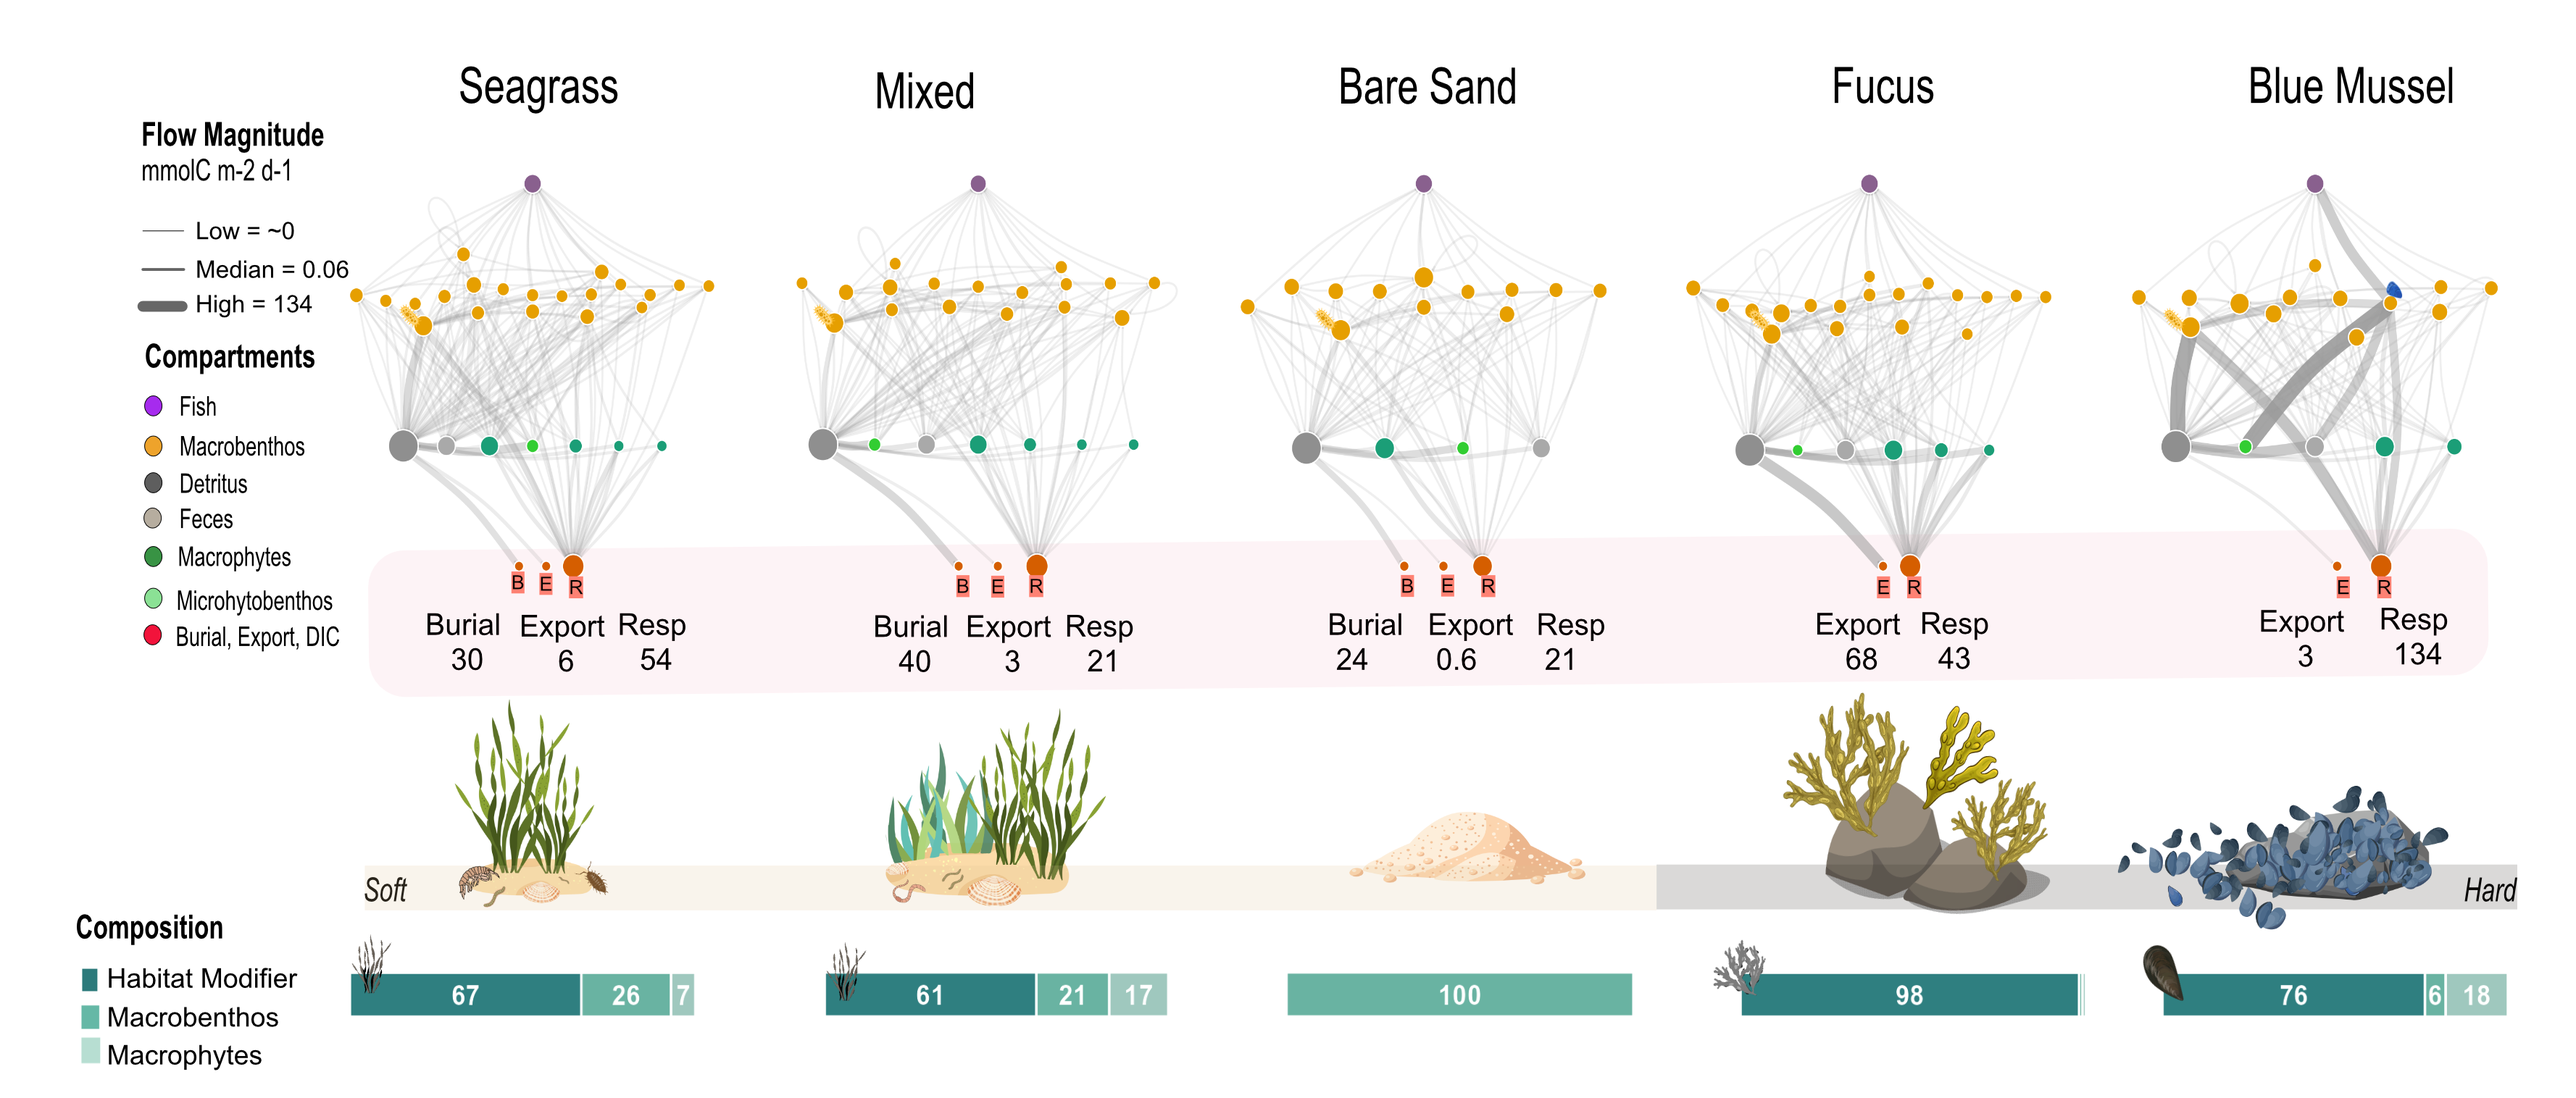
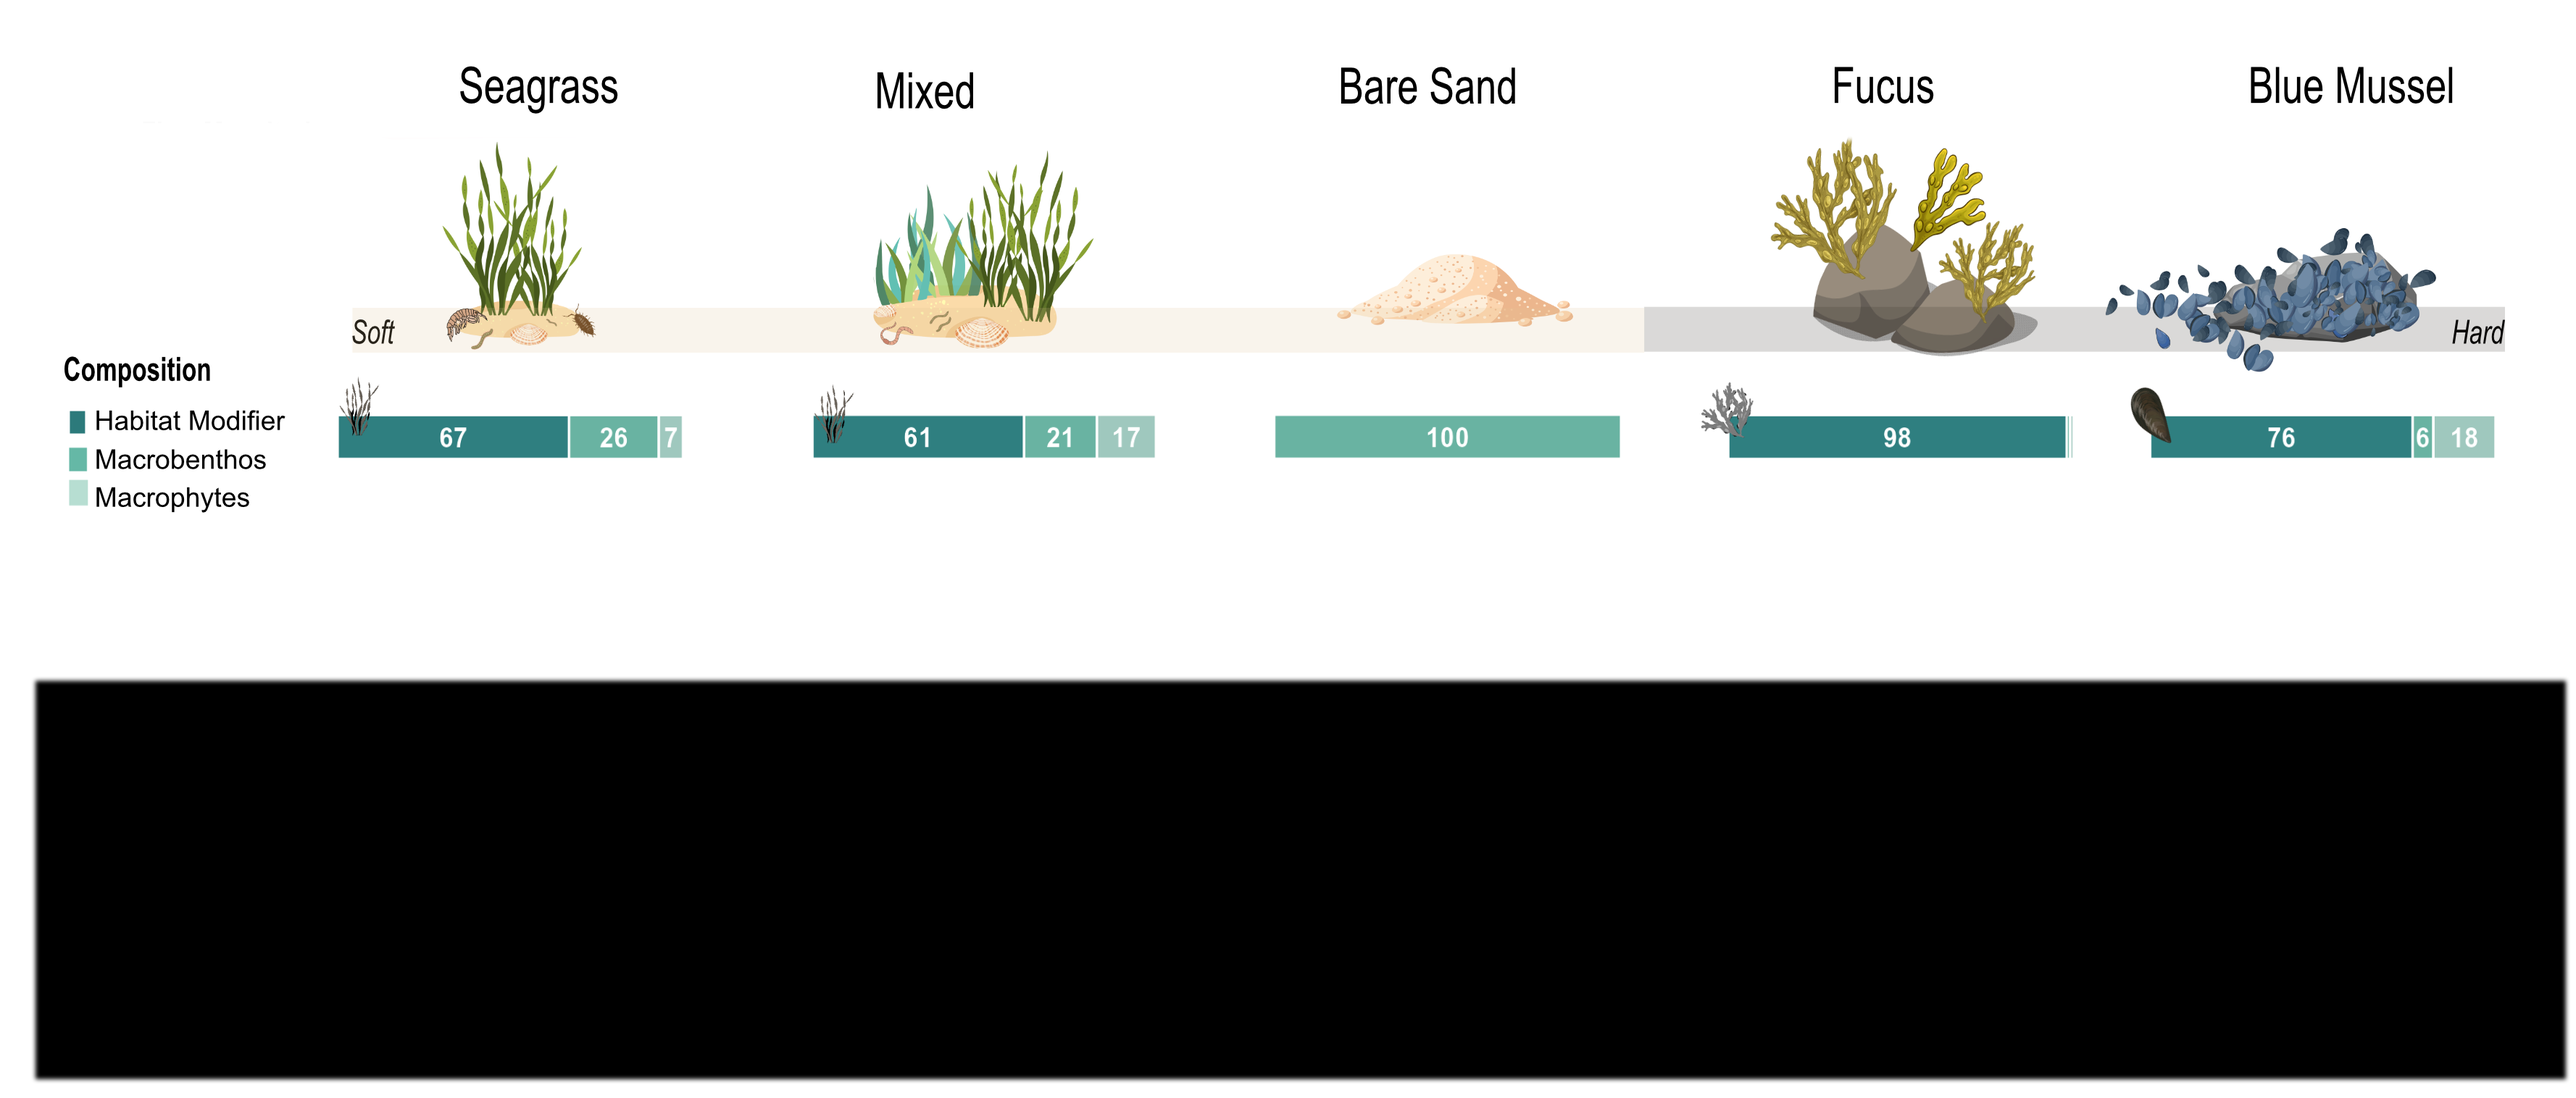
update

diff --git a/_research-projects/foundation-species.md b/_research-projects/foundation-species.md
@@ -1,6 +1,6 @@
 ---
 title: "Foundation Species and Coastal Biodiversity"
-excerpt: "Understanding how habitat-forming species structure coastal communities and food webs.<br/><img src='/images/projects/figure1_hab_outflow.png'>"
+excerpt: "Understanding how habitat-forming species structure coastal communities and food webs.<br/><img src='/images/projects/foundation species.png'>"
 collection: research-projects
 ---
 
